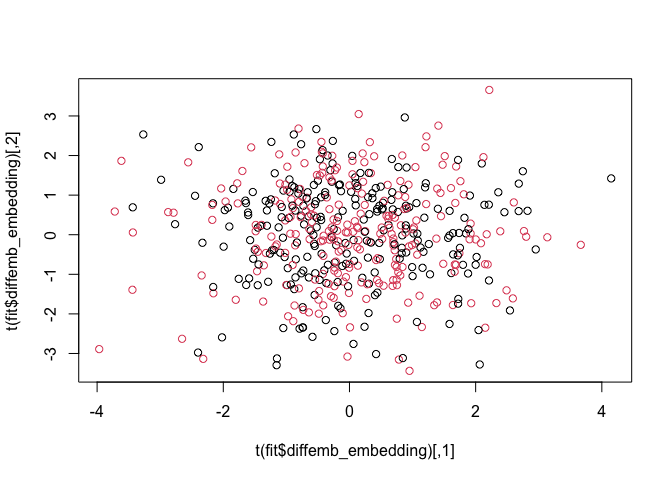
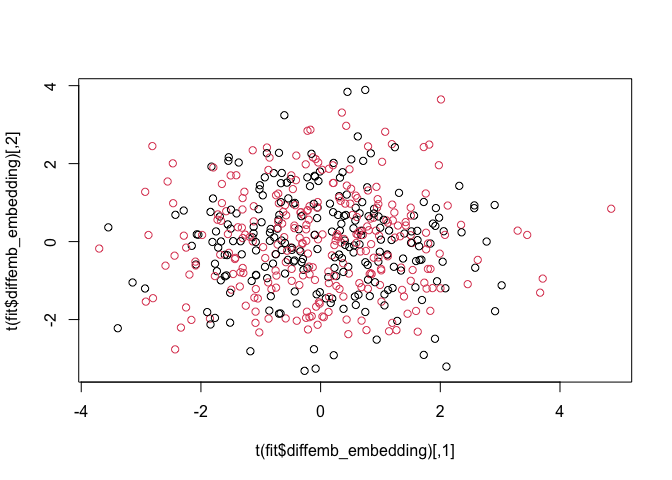
Update README

diff --git a/README.md b/README.md
@@ -21,10 +21,10 @@ You can install the released version of DiffEmbSeq from
 <https://git.embl.de/ahlmanne/DiffEmbSeq>
 
 To get read access you have set the following *access token* which is
-valid until the 05.11.2022.
+valid until the 25.02.2023.
 
 ``` r
-Sys.setenv(GITLAB_PAT = "glpat-KvTnh36v4jitb_yQaEch")
+Sys.setenv(GITLAB_PAT = "glpat-vE2cB9xNSjsU53d4z16f")
 remotes::install_gitlab(repo = "ahlmanne/DiffEmbSeq", host = "https://git.embl.de/")
 ```
 
@@ -43,20 +43,21 @@ Fit the model
 fit <- DiffEmbSeq::differential_embedding(mat, design = ~ condition, col_data = col_data,
                                           n_ambient = 10, n_embedding = 2)
 #> Fit ambient PCA
+#> Regress out global effects
 #> Find base point for differential embedding
 #> Fit differential embedding model
-#> -Iteration: 0    error: 6.47e+03
+#> -Iteration: 0    error: 6.54e+03
 #> ---Fit Grassmann linear model
 #> ---Update linear regression
-#> -Iteration: 1    error: 4.85e+03
+#> -Iteration: 1    error: 4.88e+03
 #> ---Fit Grassmann linear model
 #> ---Update linear regression
-#> -Iteration: 2    error: 4.85e+03
+#> -Iteration: 2    error: 4.88e+03
 #> Converged
 fit
 #> class: DiffEmbFit 
 #> dim: 30 500 
-#> metadata(10): n_ambient n_embedding ... alignment_coefficients ''
+#> metadata(11): n_ambient n_embedding ... alignment_stretching ''
 #> assays(1): expr
 #> rownames: NULL
 #> rowData names(0):
@@ -74,30 +75,30 @@ round(fit$diffemb_coefficients, 5)
 #> , , Intercept
 #> 
 #>           [,1]     [,2]
-#>  [1,]  0.00000  0.00000
-#>  [2,]  0.00000  0.00000
-#>  [3,] -0.51930  0.61979
-#>  [4,] -0.32508  0.06652
-#>  [5,]  0.20514 -0.29096
-#>  [6,]  0.22391  0.01630
-#>  [7,] -0.24185 -0.07071
-#>  [8,]  0.17054 -0.16438
-#>  [9,] -0.07646 -0.06271
-#> [10,] -0.03062  0.00817
+#>  [1,]  0.00562 -0.00553
+#>  [2,]  0.01415 -0.01122
+#>  [3,] -0.06522 -0.16661
+#>  [4,]  1.10901  0.02092
+#>  [5,]  0.33172  0.41483
+#>  [6,] -0.57218 -0.83102
+#>  [7,] -0.10213 -0.18001
+#>  [8,]  0.14411 -0.13790
+#>  [9,] -0.27461 -0.08411
+#> [10,]  0.12748 -0.41115
 #> 
 #> , , conditionb
 #> 
 #>           [,1]     [,2]
-#>  [1,]  0.00000  0.00000
-#>  [2,]  0.00000  0.00000
-#>  [3,]  0.58501 -1.38694
-#>  [4,]  0.60686  0.51942
-#>  [5,] -0.20612  0.10382
-#>  [6,] -0.54786 -0.03385
-#>  [7,]  0.34128  0.27822
-#>  [8,] -0.16600  0.07207
-#>  [9,]  0.11197  0.20350
-#> [10,] -0.03057  0.01884
+#>  [1,] -0.00387  0.00878
+#>  [2,] -0.00964  0.01997
+#>  [3,]  0.31304  0.27604
+#>  [4,] -1.37932  0.38055
+#>  [5,] -0.43357 -0.25998
+#>  [6,]  0.37321  1.24946
+#>  [7,]  0.08710  0.08453
+#>  [8,] -0.10357  0.37645
+#>  [9,]  0.25211  0.18000
+#> [10,] -0.14092  0.29485
 plot(t(fit$diffemb_embedding), col = as.factor(col_data$condition))
 ```
 
@@ -144,13 +145,13 @@ res <- DiffEmbSeq::test_differential_expression(fit, contrast = fact(condition =
                                                 consider = "embedding+linear", variance_est = "bootstrap", 
                                                 return = "table")
 head(res)
-#>     feature   obs      pval  adj_pval        diff   adj_diff        sd
-#> 1 feature_1 obs_1 0.8689930 0.9956089 -0.04006239 -0.1649377 0.2428940
-#> 2 feature_2 obs_1 0.5717281 0.9750561  0.17651967  0.5655083 0.3121434
-#> 3 feature_3 obs_1 0.6291247 0.9837155 -0.16292456 -0.4829591 0.3373465
-#> 4 feature_4 obs_1 0.7890687 0.9899962  0.06962060  0.2675201 0.2602444
-#> 5 feature_5 obs_1 0.6699281 0.9878032  0.08134729  0.4262467 0.1908456
-#> 6 feature_6 obs_1 0.8437783 0.9931445 -0.04825848 -0.1970630 0.2448886
+#>     feature   obs       pval  adj_pval       diff   adj_diff        sd
+#> 1 feature_1 obs_1 0.42323380 0.9601503  0.4774037  0.8008236 0.5961410
+#> 2 feature_2 obs_1 0.62604229 0.9994854 -0.2489013 -0.4873049 0.5107711
+#> 3 feature_3 obs_1 0.34931102 0.9280894 -0.4225459 -0.9359265 0.4514734
+#> 4 feature_4 obs_1 0.02360279 0.4168384 -0.9903750 -2.2635341 0.4375348
+#> 5 feature_5 obs_1 0.50884418 0.9938363  0.1461087  0.6606385 0.2211629
+#> 6 feature_6 obs_1 0.34926914 0.9280894 -0.2416553 -0.9360079 0.2581766
 ```
 
 Show the gene expression changes on the latent embedding
@@ -162,3 +163,49 @@ plot(t(fit$diffemb_embedding), col = pal(res[res$feature == "feature_10",]$diff)
 ```
 
 <img src="man/figures/README-visualize-differential-expression-1.png" width="100%" />
+
+# Session Info
+
+``` r
+sessionInfo()
+#> R version 4.1.1 (2021-08-10)
+#> Platform: x86_64-apple-darwin17.0 (64-bit)
+#> Running under: macOS Big Sur 10.16
+#> 
+#> Matrix products: default
+#> BLAS:   /Library/Frameworks/R.framework/Versions/4.1/Resources/lib/libRblas.0.dylib
+#> LAPACK: /Library/Frameworks/R.framework/Versions/4.1/Resources/lib/libRlapack.dylib
+#> 
+#> locale:
+#> [1] en_US.UTF-8/en_US.UTF-8/en_US.UTF-8/C/en_US.UTF-8/en_US.UTF-8
+#> 
+#> attached base packages:
+#> [1] stats     graphics  grDevices utils     datasets  methods   base     
+#> 
+#> loaded via a namespace (and not attached):
+#>  [1] Rcpp_1.0.7                  DiffEmbSeq_0.0.5           
+#>  [3] compiler_4.1.1              GenomeInfoDb_1.28.4        
+#>  [5] highr_0.9                   XVector_0.32.0             
+#>  [7] MatrixGenerics_1.9.0        bitops_1.0-7               
+#>  [9] tools_4.1.1                 zlibbioc_1.38.0            
+#> [11] SingleCellExperiment_1.14.1 digest_0.6.27              
+#> [13] viridisLite_0.4.0           lifecycle_1.0.0            
+#> [15] evaluate_0.14               lattice_0.20-44            
+#> [17] rlang_1.0.3                 Matrix_1.3-4               
+#> [19] DelayedArray_0.18.0         cli_3.3.0                  
+#> [21] rstudioapi_0.13             yaml_2.2.1                 
+#> [23] parallel_4.1.1              expm_0.999-6               
+#> [25] xfun_0.26                   fastmap_1.1.0              
+#> [27] GenomeInfoDbData_1.2.6      stringr_1.4.0              
+#> [29] knitr_1.34                  S4Vectors_0.30.0           
+#> [31] IRanges_2.26.0              stats4_4.1.1               
+#> [33] grid_4.1.1                  Biobase_2.52.0             
+#> [35] R6_2.5.1                    rmarkdown_2.11             
+#> [37] irlba_2.3.3                 farver_2.1.0               
+#> [39] magrittr_2.0.1              scales_1.1.1               
+#> [41] matrixStats_0.60.1          htmltools_0.5.2            
+#> [43] BiocGenerics_0.38.0         GenomicRanges_1.44.0       
+#> [45] SummarizedExperiment_1.22.0 colorspace_2.0-2           
+#> [47] stringi_1.7.4               glmGamPoi_1.11.0           
+#> [49] munsell_0.5.0               RCurl_1.98-1.4
+```
